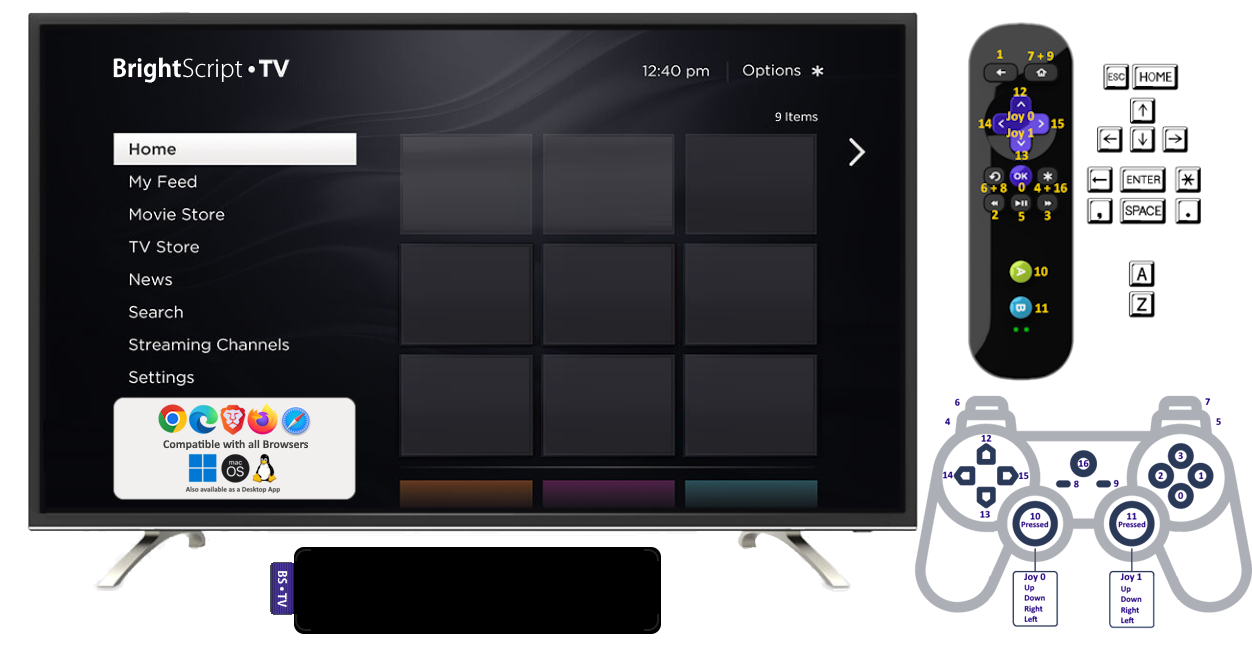
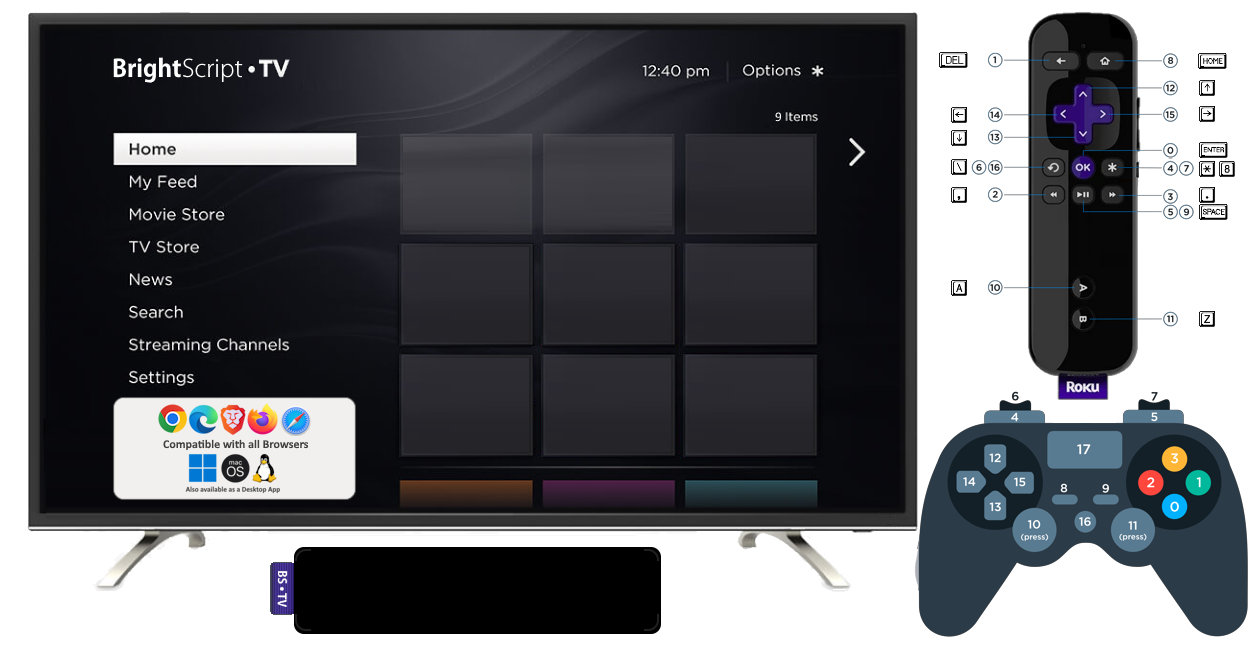
Implemented `roRemoteInfo` and new Remote Control Simulation documentation

Changed region(s): [[0.7165, 0.0, 1.0, 0.9846]]

diff --git a/src/core/brsTypes/components/RoRemoteInfo.ts b/src/core/brsTypes/components/RoRemoteInfo.ts
@@ -1,0 +1,79 @@
+import { BrsValue, ValueKind, BrsString, BrsBoolean } from "../BrsType";
+import { BrsComponent } from "./BrsComponent";
+import { BrsType, Int32 } from "..";
+import { Callable, StdlibArgument } from "../Callable";
+import { Interpreter } from "../../interpreter";
+import { RemoteControl } from "../../common";
+
+export class RoRemoteInfo extends BrsComponent implements BrsValue {
+    readonly kind = ValueKind.Object;
+
+    constructor() {
+        super("roRemoteInfo");
+        this.registerMethods({
+            ifRemoteInfo: [this.getModel, this.isAwake, this.hasFeature],
+        });
+    }
+
+    toString(parent?: BrsType): string {
+        return "<Component: roRemoteInfo>";
+    }
+
+    equalTo(other: BrsType) {
+        return BrsBoolean.False;
+    }
+
+    /** Returns the model number of the specified Roku remote control. */
+    private readonly getModel = new Callable("getModel", {
+        signature: {
+            args: [new StdlibArgument("remoteIndex", ValueKind.Int32)],
+            returns: ValueKind.Int32,
+        },
+        impl: (interpreter: Interpreter, remoteIndex: Int32) => {
+            const remote = getRemote(interpreter, remoteIndex.getValue());
+            return new Int32(remote.model);
+        },
+    });
+
+    /** Checks whether the specified Roku remote control is awake. */
+    private readonly isAwake = new Callable("isAwake", {
+        signature: {
+            args: [new StdlibArgument("remoteIndex", ValueKind.Int32)],
+            returns: ValueKind.Boolean,
+        },
+        impl: (interpreter: Interpreter, remoteIndex: Int32) => {
+            const remote = getRemote(interpreter, remoteIndex.getValue());
+            return BrsBoolean.from(remote.model > 0);
+        },
+    });
+
+    /** Checks if the current device/firmware supports the passed in feature string. */
+    private readonly hasFeature = new Callable("hasFeature", {
+        signature: {
+            args: [
+                new StdlibArgument("feature", ValueKind.String),
+                new StdlibArgument("remoteIndex", ValueKind.Int32),
+            ],
+            returns: ValueKind.Boolean,
+        },
+        impl: (interpreter: Interpreter, feature: BrsString, remoteIndex: Int32) => {
+            const features = ["muteswitch"]; // MuteSwitch feature always returns true in Roku
+            const remote = getRemote(interpreter, remoteIndex.getValue());
+            if (remote.features.length) {
+                features.push(...remote.features);
+            }
+            return BrsBoolean.from(features.includes(feature.value.toLowerCase()));
+        },
+    });
+}
+
+function getRemote(interpreter: Interpreter, index: number): RemoteControl {
+    const remotes = interpreter.deviceInfo.get("remoteControls");
+    if (remotes instanceof Array && remotes.length && index < remotes.length) {
+        if (index < 0) {
+            index = interpreter.lastRemote;
+        }
+        return remotes[index];
+    }
+    return { model: 0, features: ["wifi"] };
+}

diff --git a/src/api/control.ts b/src/api/control.ts
@@ -15,6 +15,7 @@ import {
     platform,
 } from "../core/common";
 /// #if BROWSER
+import { deviceData } from "./package";
 import gameControl, { GCGamepad, EventName } from "esm-gamecontroller.js";
 /// #endif
 
@@ -70,6 +71,7 @@ export function initControlModule(array: Int32Array, options: any = {}) {
     if (options.customPadButtons instanceof Map) {
         setCustomPadButtons(options.customPadButtons);
     }
+    deviceData.remoteControls.push({ model: 10001, features: ["wifi", "keyboard"] });
     gameControl.on("connect", gamePadOnHandler);
     gameControl.on("disconnect", gamePadOffHandler);
     /// #endif
@@ -237,7 +239,7 @@ function handleKeyboardEvent(event: KeyboardEvent, mod: number) {
     }
     const key = keysMap.get(keyCode);
     if (key && key.toLowerCase() !== "ignore") {
-        sendKey(key, mod, RemoteType.IR);
+        sendKey(key, mod, RemoteType.WD);
         if (mod === 0) {
             event.preventDefault();
         }
@@ -281,6 +283,7 @@ export function setCustomPadButtons(newButtons: Map<number, string>) {
 
 // GamePad handlers
 function gamePadOnHandler(gamePad: GCGamepad) {
+    deviceData.remoteControls.push({ model: 10002, features: ["bluetooth", "gamepad"] });
     axesMap.forEach((events, index) => {
         events.forEach((key: string) => {
             if (gamePad.axes > index) {
@@ -302,7 +305,7 @@ function gamePadSubscribe(gamePad: GCGamepad, eventName: EventName, index: numbe
             key = buttonsMap.get(index) ?? "";
         }
         if (controls.gamePads && key !== "") {
-            sendKey(key, 0, RemoteType.WD, gamePad.id);
+            sendKey(key, 0, RemoteType.BT, gamePad.id + 1);
         }
     });
     gamePad.after(eventName, () => {
@@ -310,7 +313,7 @@ function gamePadSubscribe(gamePad: GCGamepad, eventName: EventName, index: numbe
             key = buttonsMap.get(index) ?? "";
         }
         if (controls.gamePads && key !== "") {
-            sendKey(key, 100, RemoteType.WD, gamePad.id);
+            sendKey(key, 100, RemoteType.BT, gamePad.id + 1);
         }
     });
 }

diff --git a/src/core/common.ts b/src/core/common.ts
@@ -32,6 +32,7 @@ export interface DeviceInfo {
     fontPath: string;
     fonts?: Map<string, any>;
     maxSimulStreams: 1 | 2 | 3;
+    remoteControls: RemoteControl[];
     customFeatures: string[];
     connectionType: "WiFiConnection" | "WiredConnection" | "";
     localIps: string[];
@@ -66,6 +67,7 @@ export const defaultDeviceInfo: DeviceInfo = {
     fontPath: "../fonts/",
     fonts: new Map(),
     maxSimulStreams: 2,
+    remoteControls: [],
     customFeatures: [],
     connectionType: "WiredConnection",
     localIps: ["eth1,127.0.0.1"], // In a Browser is not possible to get a real IP, populate it on NodeJS or Electron.
@@ -240,6 +242,17 @@ export function isNDKStart(value: any): value is NDKStart {
     );
 }
 
+/* Remote Control Interface
+ *
+ * This interface is used to provide information about the remote controls
+ * that are available in the device.
+ *
+ */
+export type RemoteControl = {
+    model: number;
+    features: string[];
+};
+
 /* Platform Interface
  *
  * This interface is used to provide information about the environment
@@ -311,14 +324,14 @@ export const keyArraySpots = 3;
 
 // Remote control type
 export enum RemoteType {
-    SIM = 10, // Simulated (default)
-    IR = 20, // Infra Red
-    WD = 30, // Wifi Direct
-    ECP = 40, // External Control Protocol
-    RMOB = 50, // Roku Mobile App (ECP2)
+    IR = 10, // Infra Red (default)
+    WD = 20, // Wifi Direct (keyboard simulation)
+    BT = 30, // Bluetooth (gamepad simulation)
+    SIM = 40, // Simulated
+    ECP = 50, // External Control Protocol
+    RMOB = 60, // Roku Mobile App (ECP2)
 }
 // Other RBI valid remote codes:
-// BT - Bluetooth
 // CEC - Consumer Electronics Control
 // MHL - Mobile High-Definition Link
 // FP - Front Panel (for on-device controls)

diff --git a/test/e2e/BrsComponents.test.js b/test/e2e/BrsComponents.test.js
@@ -533,4 +533,24 @@ describe("end to end brightscript functions", () => {
             "true",
         ]);
     });
+    test("components/roRemoteInfo.brs", async () => {
+        await execute([resourceFile("components", "roRemoteInfo.brs")], outputStreams);
+        expect(allArgs(outputStreams.stdout.write).map((arg) => arg.trimEnd())).toEqual([
+            "--- Remote Info ---",
+            "Model:  0",
+            "IsAwake: false",
+            "--- Remote Features ---",
+            "wifi remote? true",
+            "bluetooth remote? false",
+            "motion remote? false",
+            "audio remote? false",
+            "voice capture remote? false",
+            "find remote remote? false",
+            "hasMuteSwitch? false",
+            "Mute Switch? true",
+            "--- Simulator Only Features ---",
+            "Keyboard? false",
+            "GamePad? false",
+        ]);
+    });
 });

diff --git a/src/core/brsTypes/components/BrsObjects.ts b/src/core/brsTypes/components/BrsObjects.ts
@@ -34,6 +34,7 @@ import { RoRegistry } from "./RoRegistry";
 import { RoRegistrySection } from "./RoRegistrySection";
 import { RoAppInfo } from "./RoAppInfo";
 import { RoDeviceInfo } from "./RoDeviceInfo";
+import { RoRemoteInfo } from "./RoRemoteInfo";
 import { RoFileSystem } from "./RoFileSystem";
 import { Interpreter } from "../../interpreter";
 import { RoString } from "./RoString";
@@ -138,6 +139,7 @@ export const BrsObjects = new BrsObjectsMap([
     ],
     ["roAppInfo", (interpreter: Interpreter) => new RoAppInfo()],
     ["roDeviceInfo", (interpreter: Interpreter) => new RoDeviceInfo()],
+    ["roRemoteInfo", (interpreter: Interpreter) => new RoRemoteInfo()],
     ["roAppMemoryMonitor", (interpreter: Interpreter) => new RoAppMemoryMonitor()],
     ["roAudioPlayer", (interpreter: Interpreter) => new RoAudioPlayer()],
     [

diff --git a/src/api/index.ts b/src/api/index.ts
@@ -6,7 +6,6 @@
  *  Licensed under the MIT License. See LICENSE in the repository root for license information.
  *--------------------------------------------------------------------------------------------*/
 import { SubscribeCallback, getNow, getWorkerLibPath, saveDataBuffer } from "./util";
-
 import {
     AppExitReason,
     AppPayload,
@@ -21,7 +20,6 @@ import {
     isNDKStart,
     platform,
 } from "../core/common";
-
 import {
     source,
     paths,
@@ -112,6 +110,7 @@ export function initialize(customDeviceInfo?: Partial<DeviceInfo>, options: any 
             "firmware",
             "registry",
             "models",
+            "remoteControls",
             "audioCodecs",
             "videoFormats",
             "fonts",

diff --git a/src/core/brsTypes/components/RoMessagePort.ts b/src/core/brsTypes/components/RoMessagePort.ts
@@ -178,6 +178,7 @@ export class RoMessagePort extends BrsComponent implements BrsValue {
                 const mod = Atomics.load(interpreter.sharedArray, DataType.MOD + idx);
                 Atomics.store(interpreter.sharedArray, DataType.KEY + idx, -1);
                 this.keysBuffer.push({ remote: `${remoteStr}:${remoteIdx}`, key: key, mod: mod });
+                interpreter.lastRemote = remoteIdx;
             }
         }
     }

diff --git a/src/core/brsTypes/index.ts b/src/core/brsTypes/index.ts
@@ -84,6 +84,7 @@ export * from "./components/RoLocalization";
 export * from "./components/RoRegistry";
 export * from "./components/RoRegistrySection";
 export * from "./components/RoDeviceInfo";
+export * from "./components/RoRemoteInfo";
 export * from "./components/RoAppMemoryMonitor";
 export * from "./components/RoFileSystem";
 export * from "./components/RoChannelStore";

diff --git a/src/core/interpreter/index.ts b/src/core/interpreter/index.ts
@@ -164,6 +164,7 @@ export class Interpreter implements Expr.Visitor<BrsType>, Stmt.Visitor<BrsType>
         return this._creationTime;
     }
 
+    public lastRemote: number = 0;
     public lastKeyTime: number = Date.now();
     public currKeyTime: number = Date.now();
     public debugMode: boolean = false;

diff --git a/docs/remote-control.md b/docs/remote-control.md
@@ -1,0 +1,32 @@
+# Remote Control Simulation
+
+The `brs-engine` simulates the Roku remote control, offering customizable mapping and extendable capabilities. The browser libraries support **Keyboard** and **Game Pad** simulation, with the default mapping detailed in the section below. It is also possible to [customize the control buttons mapping](./customization.md#control-mapping) and [enable multi-key support](./customization.md#app-manifest) using a special `manifest` entry.
+
+If you want to create your own control simulation, such as a touch screen control, you can use the [Engine API](./engine-api.md) methods `sendKeyDown`, `sendKeyUp`, and `sendKeyPress`.
+
+The NodeJS `brs.ecp.js` library supports sending commands via the [Roku ECP API](https://developer.roku.com/docs/developer-program/dev-tools/external-control-api.md), which can also be used to simulate remote control for applications [running under the CLI](./run-as-cli.md).
+
+## Keyboard and Game Pad Control Reference
+
+The default mapping of the keyboard and game pads to Roku remote control is described below:
+
+| Keyboard    | Game Pad   | Roku Control | Description                                                           |
+|-------------|------------|--------------|-----------------------------------------------------------------------|
+| Esc or Del  |     1      |    Back      | Return to the previous screen, some apps will close at the main menu. |
+| Home or Shift+Esc|   8   |    Home      | Close the currently loaded app.                                       |
+| Arrow Keys  |Joys & D-Pad|    D-Pad     | Directional controls to navigate on menus and control games.          |
+| Backspace   |   6 or 16  |    Replay    | Instant replay button.                                                |
+| Enter       |     0      |    OK        | Select button.                                                        |
+| Insert      |   4 or 7   |    Info      | Information/Settings button                                           |
+| PageDown    |     2      |    Rewind    | Reverse scan button.                                                  |
+| PageUp      |     3      | Fast Forward | Forward scan button.                                                  |
+| End         |   5 or 9   |  Play/Pause  | Play/Pause button.                                                    |
+| Ctrl+A      |    10      |     A        | A game button.                                                        |
+| Ctrl+Z      |    11      |     B        | B game button.                                                        |
+| F10         |    17      | Volume Mute  | Button to toggle the simulator audio mute on/off.                     |
+
+**Note:** There are mappings not listed above, specific for MacOS or Windows, please look at the file [`src/api/control.ts`](../src/api/control.ts) for details.
+
+<p align="center">
+<img src="./images/remote-mapping.png"/>
+</p>

diff --git a/docs/limitations.md b/docs/limitations.md
@@ -13,7 +13,6 @@ There are several features from the **BrightScript** language and components tha
   * `roHdmiStatus`
   * `roHttpAgent`
   * `roMicrophone`
-  * `roRemoteInfo`
   * `roRSA`
   * `roSocketAddress`
   * `roStreamSocket`
@@ -32,7 +31,7 @@ There are several features from the **BrightScript** language and components tha
   * The following methods are not supported, implemented as mock: `setCGMS`, `setMaxVideoDecodeResolution`, `setTimedMetadataForKeys`, `getCaptionRenderer`
   * Check what formats (container and codec) can be used on each browser, using `roDeviceInfo.canDecodeVideo()`, to make sure your video can be played.
   * DASH streams are not yet supported.
-* The component `roUrlTransfer` is implemented with basic functionality but has some limitations:
+* The component `roUrlTransfer` is implemented with basic functionality but with the following limitations:
   * To make a **web app** access urls from domains other than the one it is hosted, requires the server called to respond with the header `Access-Control-Allow-Origin`, [read more](https://developer.mozilla.org/en-US/docs/Web/HTTP/CSP).
   * The _async_ methods are actually synchronous and evaluated when `WaitMessage` or `GetMessage` are called.
   * If using _async_ methods make sure to use a `roMessagePort` instance per `roUrlTransfer`, do not share.
@@ -42,6 +41,7 @@ There are several features from the **BrightScript** language and components tha
   * The other Cookies related methods are just mocked and do nothing: `GetCookies`, `AddCookies`, `ClearCookies`.
   * The following methods are also only mocked but do nothing: `EnableResume`, `SetHttpVersion` and `SetMinimumTransferRate`.
   * The method `GetTargetIpAddress` from `roUrlEvent` always returns an empty string.
+* The component `roAppMemoryMonitor` will only return measured data in Node.JS and Chromium browsers. For browsers the memory heap info only accounts for the main thread, as WebWorkers do not have support for `performance.memory` API.
 * The events for the components `roInput` and `roDeviceInfo` are not being triggered.
 * The global functions `Eval()`, `GetLastRunCompileError()` and `GetLastRunRuntimeError()` are not available.
 * The string `mod` cannot be used as variable or function parameter name, because it conflicts with remainder operator `Mod` (Roku devices allows that).

diff --git a/README.md b/README.md
@@ -34,7 +34,7 @@ The **brs-engine** is developed in [TypeScript](https://www.typescriptlang.org/)
 | `browser/lib/brs.worker.js` | A **[Web Worker](https://developer.mozilla.org/en-US/docs/Web/API/Web_Workers_API/Using_web_workers)** library that runs the language parser and interpreter in a background thread on the browser platform.|
 |`bin/brs.cli.js`| Executable **[CLI](docs/run-as-cli.md)** application that can be used from the terminal: <br/>- As a language shell - [REPL (read-eval-print loop)](https://en.wikipedia.org/wiki/Read%E2%80%93eval%E2%80%93print_loop)<br/>- Executing `brs`, `zip` or `bpk` files<br/>- Packaging `zip` files into encrypted `bpk` packages.|
 |`bin/brs.node.js`| A NodeJS library, similar to `brs.worker.js` that exposes the language parser and interpreter to be used by Node.js applications, the engine CLI and automated tests.|
-|`bin/brs.ecp.js`| A **[NodeJS Worker](https://nodejs.org/api/worker_threads.html)** library, used by the CLI to launch the ECP and SSDP services.|
+|`bin/brs.ecp.js`| A **[NodeJS Worker](https://nodejs.org/api/worker_threads.html)** library, used by the CLI to launch the [ECP](https://developer.roku.com/docs/developer-program/dev-tools/external-control-api.md) and **SSDP** services.|
 
 The Web Worker library require features like [SharedArrayBuffer](https://developer.mozilla.org/en-US/docs/Web/JavaScript/Reference/Global_Objects/SharedArrayBuffer) and [OffScreenCanvas](https://developer.mozilla.org/en-US/docs/Web/API/OffscreenCanvas), that are _relatively recent_ in the browser engines, because of that, it can only be executed on recent versions of:
 
@@ -81,6 +81,7 @@ There are many ways you can use and/or participate in the project, read the docu
 - [How to run as Command Line Interface](docs/run-as-cli.md)
 - [How add the Engine to a Web Application](docs/integrating.md)
 - [How to customize the Engine behavior](docs/customization.md)
+- [Remote Control Simulation](docs/remote-control.md)
 - [BrightScript Engine API reference](docs/engine-api.md)
 - [BrightScript Engine Limitations](docs/limitations.md)
 - [How to contribute to this Project](docs/contributing.md)
